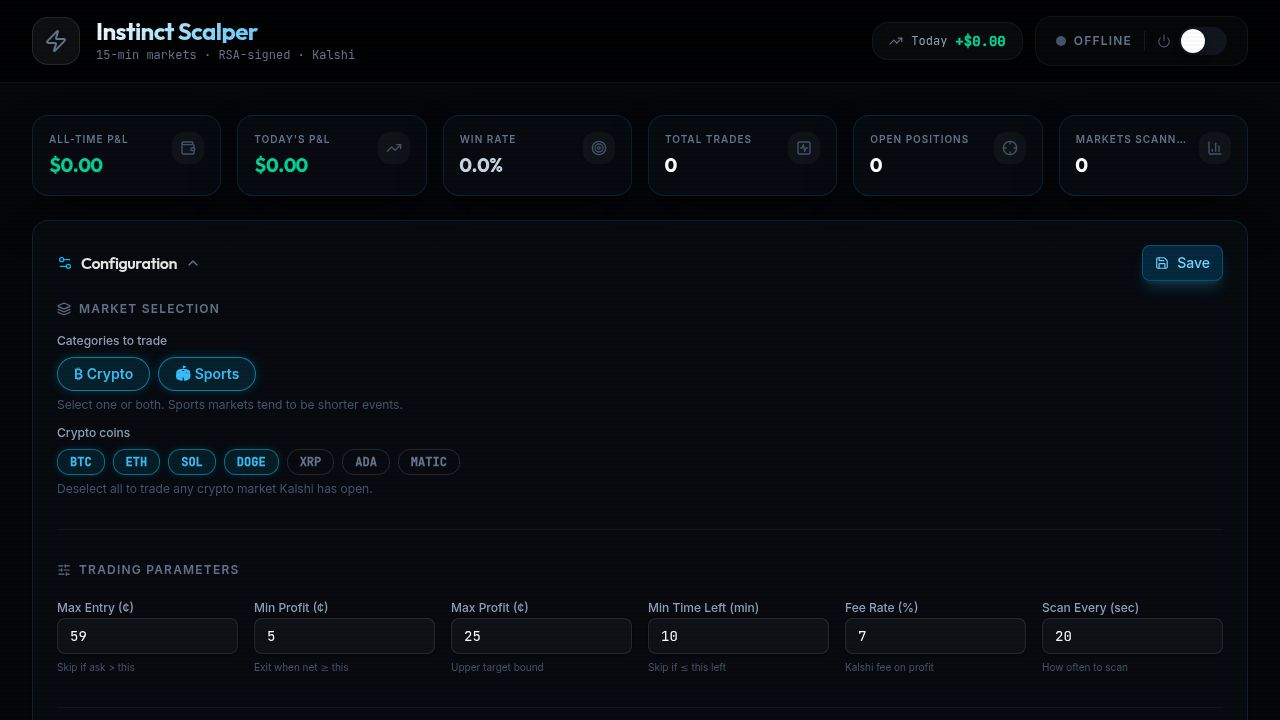
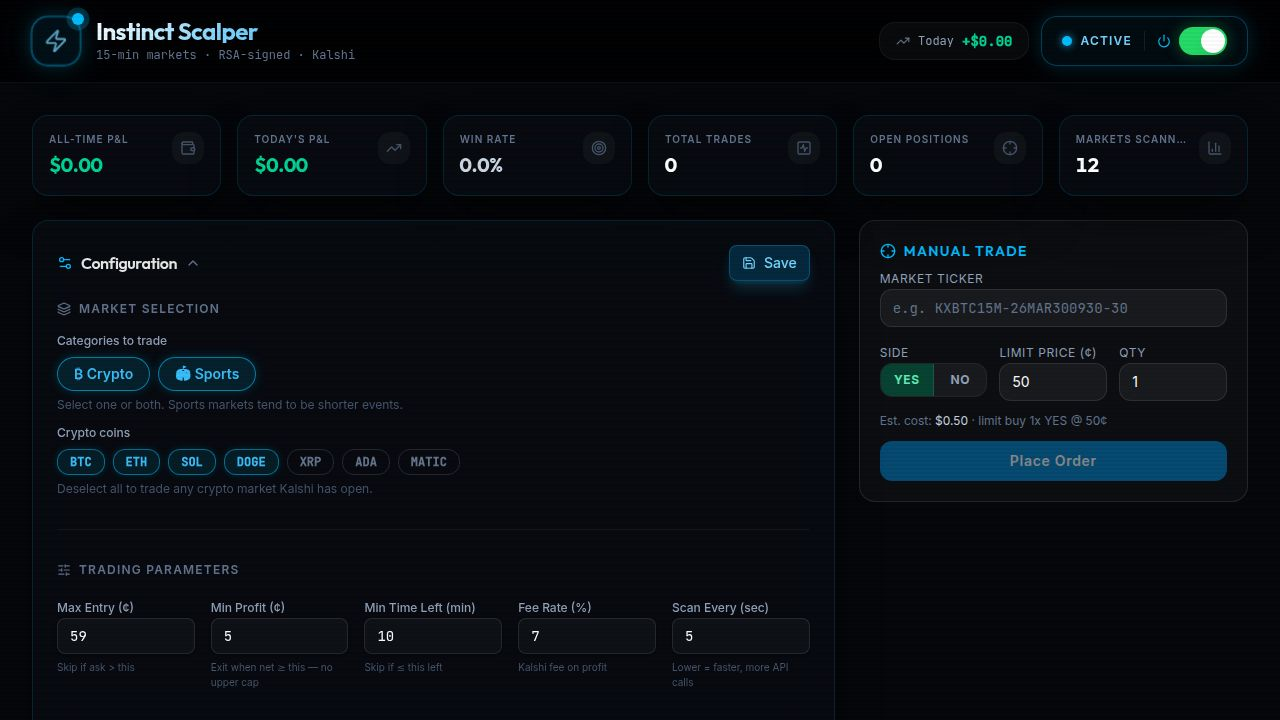
Improve bot's ability to parse market prices and allow manual trading
Fix price parsing for Kalshi markets and introduce a manual trade feature.

Replit-Commit-Author: Agent
Replit-Commit-Session-Id: a382cffc-0679-436f-8220-34f800ab4376
Replit-Commit-Checkpoint-Type: full_checkpoint
Replit-Commit-Event-Id: 97dc1bad-884a-458a-854a-d5f1732600b7
Replit-Commit-Screenshot-Url: https://storage.googleapis.com/screenshot-production-us-central1/df402503-3cd4-4ca7-b2c3-1274ece60827/a382cffc-0679-436f-8220-34f800ab4376/k5NLXdk
Replit-Helium-Checkpoint-Created: true

diff --git a/artifacts/kalshi-bot/src/components/manual-trade.tsx b/artifacts/kalshi-bot/src/components/manual-trade.tsx
@@ -1,0 +1,137 @@
+import { useState } from "react";
+import { useManualTrade } from "@workspace/api-client-react";
+import { Crosshair, ChevronDown, AlertCircle, CheckCircle2 } from "lucide-react";
+
+export function ManualTrade() {
+  const [ticker, setTicker]     = useState("");
+  const [side, setSide]         = useState<"YES" | "NO">("YES");
+  const [limitCents, setLimit]  = useState<number>(50);
+  const [quantity, setQty]      = useState<number>(1);
+  const [result, setResult]     = useState<{ success: boolean; message: string } | null>(null);
+
+  const { mutate, isPending } = useManualTrade({
+    mutation: {
+      onSuccess: (data) => setResult(data),
+      onError: (err: unknown) => setResult({ success: false, message: String(err) }),
+    },
+  });
+
+  function submit(e: React.FormEvent) {
+    e.preventDefault();
+    setResult(null);
+    mutate({ data: { ticker: ticker.trim().toUpperCase(), side, limitCents, quantity } });
+  }
+
+  return (
+    <div className="rounded-2xl border border-white/10 bg-white/[0.03] p-5 space-y-4">
+      <div className="flex items-center gap-2 mb-1">
+        <Crosshair className="w-4 h-4 text-sky-400" />
+        <h2 className="text-sm font-semibold tracking-widest uppercase text-sky-400">
+          Manual Trade
+        </h2>
+      </div>
+
+      <form onSubmit={submit} className="space-y-3">
+        {/* Ticker */}
+        <div className="space-y-1">
+          <label className="text-xs text-slate-400 uppercase tracking-wider">Market Ticker</label>
+          <input
+            type="text"
+            value={ticker}
+            onChange={(e) => setTicker(e.target.value)}
+            placeholder="e.g. KXBTC15M-26MAR300930-30"
+            required
+            className="w-full bg-white/5 border border-white/10 rounded-lg px-3 py-2 text-sm text-white placeholder-slate-500 focus:outline-none focus:border-sky-500/50 focus:ring-1 focus:ring-sky-500/30 font-mono"
+          />
+        </div>
+
+        <div className="grid grid-cols-3 gap-3">
+          {/* Side */}
+          <div className="space-y-1">
+            <label className="text-xs text-slate-400 uppercase tracking-wider">Side</label>
+            <div className="flex rounded-lg overflow-hidden border border-white/10">
+              <button
+                type="button"
+                onClick={() => setSide("YES")}
+                className={`flex-1 py-2 text-xs font-bold tracking-wider transition-colors ${
+                  side === "YES"
+                    ? "bg-emerald-500/30 text-emerald-300 border-r border-white/10"
+                    : "bg-white/5 text-slate-400 hover:bg-white/10 border-r border-white/10"
+                }`}
+              >
+                YES
+              </button>
+              <button
+                type="button"
+                onClick={() => setSide("NO")}
+                className={`flex-1 py-2 text-xs font-bold tracking-wider transition-colors ${
+                  side === "NO"
+                    ? "bg-red-500/30 text-red-300"
+                    : "bg-white/5 text-slate-400 hover:bg-white/10"
+                }`}
+              >
+                NO
+              </button>
+            </div>
+          </div>
+
+          {/* Limit Price */}
+          <div className="space-y-1">
+            <label className="text-xs text-slate-400 uppercase tracking-wider">Limit Price (¢)</label>
+            <input
+              type="number"
+              min={1}
+              max={99}
+              value={limitCents}
+              onChange={(e) => setLimit(Number(e.target.value))}
+              required
+              className="w-full bg-white/5 border border-white/10 rounded-lg px-3 py-2 text-sm text-white focus:outline-none focus:border-sky-500/50 focus:ring-1 focus:ring-sky-500/30"
+            />
+          </div>
+
+          {/* Quantity */}
+          <div className="space-y-1">
+            <label className="text-xs text-slate-400 uppercase tracking-wider">Qty</label>
+            <input
+              type="number"
+              min={1}
+              max={500}
+              value={quantity}
+              onChange={(e) => setQty(Number(e.target.value))}
+              required
+              className="w-full bg-white/5 border border-white/10 rounded-lg px-3 py-2 text-sm text-white focus:outline-none focus:border-sky-500/50 focus:ring-1 focus:ring-sky-500/30"
+            />
+          </div>
+        </div>
+
+        {/* Cost estimate */}
+        <p className="text-xs text-slate-500">
+          Est. cost: <span className="text-slate-300">${((limitCents * quantity) / 100).toFixed(2)}</span>
+          {" · "}limit buy {quantity}x {side} @ {limitCents}¢
+        </p>
+
+        <button
+          type="submit"
+          disabled={isPending || !ticker.trim()}
+          className="w-full py-2.5 rounded-lg bg-sky-600 hover:bg-sky-500 disabled:opacity-50 disabled:cursor-not-allowed text-white text-sm font-semibold tracking-wider transition-colors"
+        >
+          {isPending ? "Placing Order…" : "Place Order"}
+        </button>
+      </form>
+
+      {/* Result */}
+      {result && (
+        <div className={`flex items-start gap-2 p-3 rounded-lg text-xs ${
+          result.success
+            ? "bg-emerald-500/10 border border-emerald-500/20 text-emerald-300"
+            : "bg-red-500/10 border border-red-500/20 text-red-300"
+        }`}>
+          {result.success
+            ? <CheckCircle2 className="w-4 h-4 mt-0.5 shrink-0" />
+            : <AlertCircle className="w-4 h-4 mt-0.5 shrink-0" />}
+          <span className="font-mono break-all">{result.message}</span>
+        </div>
+      )}
+    </div>
+  );
+}

diff --git a/artifacts/api-server/src/lib/kalshi-bot.ts b/artifacts/api-server/src/lib/kalshi-bot.ts
@@ -331,12 +331,20 @@ interface KalshiMarket {
   last_price_dollars?: number;
 }
 
-/** Read a price field from a market object, always returning integer cents. */
+/** Read a price field from a market object, always returning integer cents.
+ *  Handles both number and string values — Kalshi sometimes returns prices as strings.
+ */
 function priceCents(m: KalshiMarket, field: "yes_ask" | "yes_bid" | "no_ask" | "no_bid" | "last_price"): number {
-  const dollars = (m as any)[`${field}_dollars`];
-  if (typeof dollars === "number" && dollars > 0) return Math.round(dollars * 100);
-  const cents = (m as any)[field];
-  if (typeof cents === "number" && cents > 0) return Math.round(cents);
+  const rawDollars = (m as any)[`${field}_dollars`];
+  if (rawDollars !== undefined && rawDollars !== null) {
+    const v = typeof rawDollars === "number" ? rawDollars : parseFloat(String(rawDollars));
+    if (!isNaN(v) && v > 0) return Math.round(v * 100);
+  }
+  const rawCents = (m as any)[field];
+  if (rawCents !== undefined && rawCents !== null) {
+    const v = typeof rawCents === "number" ? rawCents : parseFloat(String(rawCents));
+    if (!isNaN(v) && v > 0) return Math.round(v);
+  }
   return 0;
 }
 
@@ -456,7 +464,7 @@ async function evaluateMarket(market: KalshiMarket): Promise<void> {
     const noBid  = priceCents(m, "no_bid");
     const { maxEntryPriceCents } = botConfig;
 
-    // If no liquidity, cache and skip silently — don't flood the log
+    // If no liquidity, cache silently and skip
     if (yesAsk === 0 && noAsk === 0) {
       zeroPriceTs.set(ticker, Date.now());
       return;
@@ -536,7 +544,8 @@ async function enterTrade(
       { tradeId: trade.id, buyOrderId },
     );
   } catch (err) {
-    await botLog("error", `Failed to enter trade on ${ticker}`, String(err));
+    const msg = err instanceof Error ? err.message : String(err);
+    await botLog("error", `Failed to enter trade on ${ticker}: ${msg}`);
     state.tradesAttempted = Math.max(0, state.tradesAttempted - 1);
   }
 }
@@ -721,4 +730,64 @@ export async function stopBot(reason?: string): Promise<BotState> {
 
   await botLog("info", `🛑 Bot stopped${reason ? ": " + reason : ""}. Daily P&L: ${state.dailyPnlCents > 0 ? "+" : ""}${state.dailyPnlCents}¢`);
   return getBotState();
+}
+
+// ─── Manual trade (user-initiated) ────────────────────────────────────────────
+export async function manualTrade(
+  ticker: string,
+  side: "YES" | "NO",
+  limitCents: number,
+  quantity: number,
+): Promise<{ success: boolean; tradeId?: number; orderId?: string; message: string }> {
+  try {
+    const resp = await kalshiFetch("GET", `/markets/${ticker}`) as { market?: KalshiMarket };
+    if (!resp.market) {
+      return { success: false, message: `Market not found: ${ticker}` };
+    }
+    const { title, close_time } = resp.market;
+    const minutesLeft = (new Date(close_time).getTime() - Date.now()) / 60_000;
+
+    const buyResp = await kalshiFetch("POST", "/portfolio/orders", {
+      ticker,
+      client_order_id: `manual-${Date.now()}`,
+      type: "limit",
+      action: "buy",
+      side: side.toLowerCase(),
+      count: quantity,
+      ...(side === "YES" ? { yes_price: limitCents } : { no_price: limitCents }),
+    }) as { order?: { order_id?: string } };
+
+    const buyOrderId = buyResp?.order?.order_id;
+
+    const [trade] = await db.insert(tradesTable).values({
+      marketId: ticker,
+      marketTitle: title ?? ticker,
+      side,
+      buyPriceCents: limitCents,
+      contractCount: quantity,
+      feeCents: 0,
+      status: "open",
+      kalshiBuyOrderId: buyOrderId,
+      minutesRemaining: minutesLeft,
+    }).returning();
+
+    openMarkets.add(ticker);
+    state.openPositionCount = openMarkets.size;
+
+    await botLog("info",
+      `🎯 Manual: bought ${quantity}x ${side} on "${title}" at ${limitCents}¢ — order ${buyOrderId ?? "(no id)"}`,
+      { tradeId: trade.id, buyOrderId },
+    );
+
+    return {
+      success: true,
+      tradeId: trade.id,
+      orderId: buyOrderId,
+      message: `Order placed: ${quantity}x ${side} @ ${limitCents}¢ on ${ticker}`,
+    };
+  } catch (err) {
+    const msg = String(err);
+    await botLog("error", `🎯 Manual trade failed on ${ticker}: ${msg}`);
+    return { success: false, message: msg };
+  }
 }

diff --git a/artifacts/api-server/src/routes/bot.ts b/artifacts/api-server/src/routes/bot.ts
@@ -1,5 +1,5 @@
 import { Router, type IRouter } from "express";
-import { startBot, stopBot, getBotState, getBotConfig, updateBotConfig } from "../lib/kalshi-bot";
+import { startBot, stopBot, getBotState, getBotConfig, updateBotConfig, manualTrade } from "../lib/kalshi-bot";
 import { db, botLogsTable, tradesTable } from "@workspace/db";
 import { desc, count } from "drizzle-orm";
 import {
@@ -14,6 +14,8 @@ import {
   ListTradesResponse,
   ListTradesQueryParams,
   GetTradeStatsResponse,
+  ManualTradeBody,
+  ManualTradeResponse,
 } from "@workspace/api-zod";
 
 const router: IRouter = Router();
@@ -120,6 +122,17 @@ router.get("/trades/stats", async (_req, res): Promise<void> => {
     winRate,
     avgPnlCents,
   }));
+});
+
+router.post("/bot/manual-trade", async (req, res): Promise<void> => {
+  const parsed = ManualTradeBody.safeParse(req.body);
+  if (!parsed.success) {
+    res.status(400).json({ error: parsed.error.message });
+    return;
+  }
+  const { ticker, side, limitCents, quantity } = parsed.data;
+  const result = await manualTrade(ticker, side, limitCents, quantity ?? 1);
+  res.json(ManualTradeResponse.parse(result));
 });
 
 export default router;

diff --git a/artifacts/kalshi-bot/src/pages/dashboard.tsx b/artifacts/kalshi-bot/src/pages/dashboard.tsx
@@ -4,6 +4,7 @@ import { StatsCard } from "@/components/stats-card";
 import { TradeTable } from "@/components/trade-table";
 import { LogViewer } from "@/components/log-viewer";
 import { BotSettings } from "@/components/bot-settings";
+import { ManualTrade } from "@/components/manual-trade";
 import {
   Wallet, Target, ActivitySquare, Crosshair,
   BarChart3, TrendingUp, ShieldCheck,
@@ -67,8 +68,15 @@ export function Dashboard() {
           />
         </div>
 
-        {/* Settings */}
-        <BotSettings />
+        {/* Settings + Manual Trade */}
+        <div className="grid grid-cols-1 lg:grid-cols-3 gap-6 items-start">
+          <div className="lg:col-span-2">
+            <BotSettings />
+          </div>
+          <div className="lg:col-span-1">
+            <ManualTrade />
+          </div>
+        </div>
 
         {/* Trade table + Logs */}
         <div className="grid grid-cols-1 lg:grid-cols-3 gap-6 items-start">
